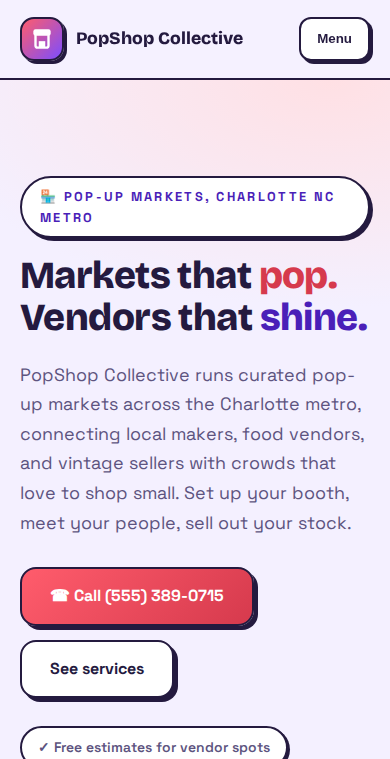
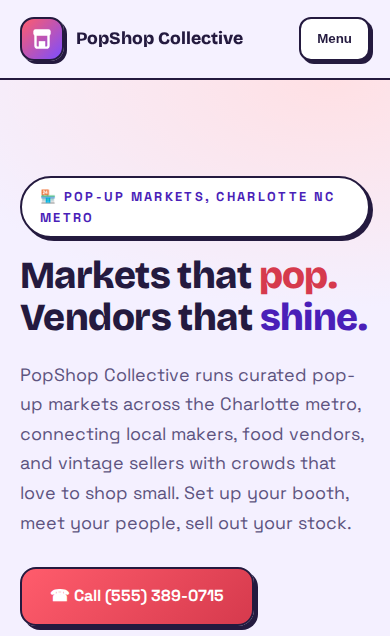
Crop PopShop hero preview so the Call button is fully visible (item 6)

diff --git a/app/page.jsx b/app/page.jsx
@@ -301,9 +301,9 @@ export default function HomePage() {
                 src="/demos/popshop-mobile.png"
                 alt="PopShop Collective online store on a phone"
                 width={390}
-                height={759}
+                height={636}
                 priority
-                className="aspect-[390/640] w-full object-cover object-top"
+                className="aspect-[390/636] w-full object-cover object-top"
               />
             </div>
             {/* Proof chips sit below the phone frame in clear space, never on top of the screenshot */}
